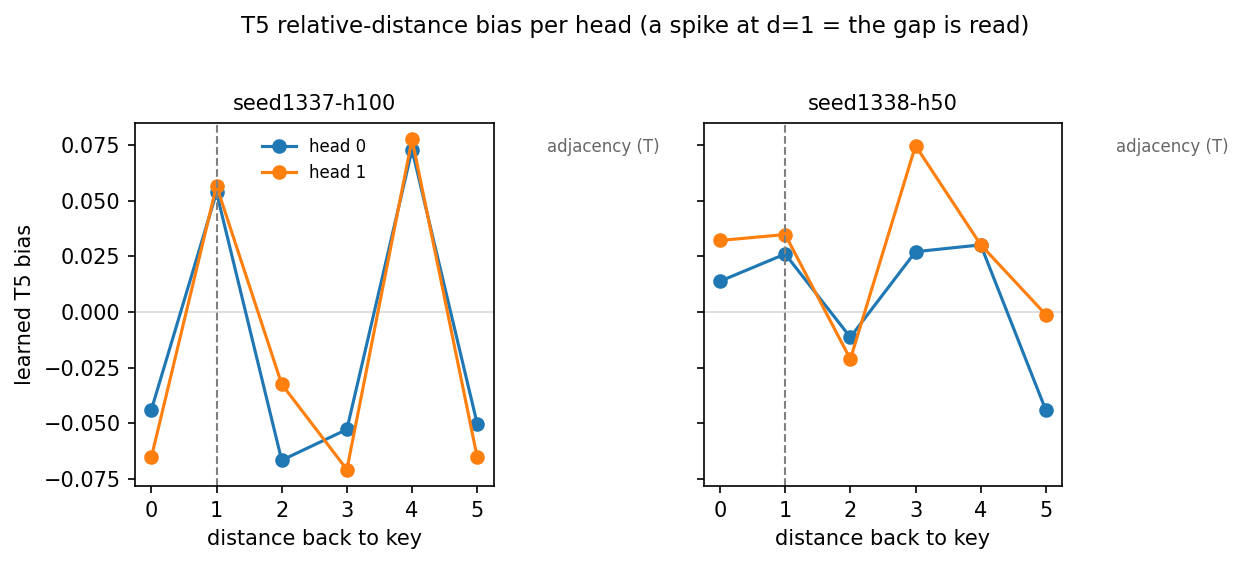
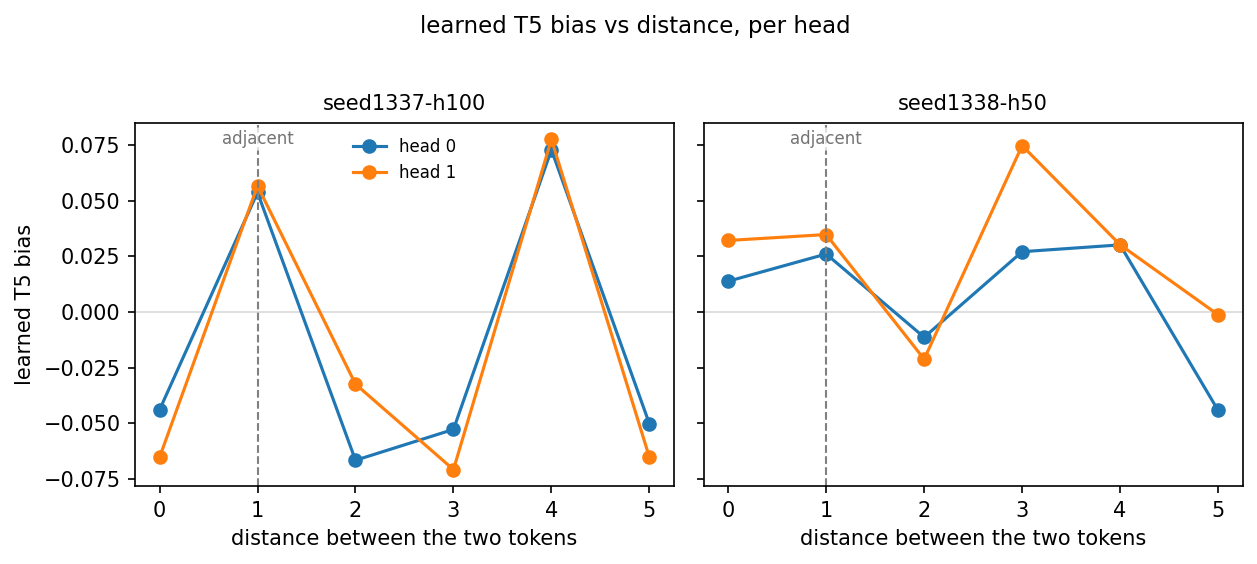
feat: update T5 bias visualization with improved plot labels and refined log commentary

diff --git a/generalization-background/plot_t5_bias.py b/generalization-background/plot_t5_bias.py
@@ -137,8 +137,9 @@ for ax, path, (dists, bias, meta) in zip(axes, ckpt_paths, series):
     for h in range(bias.size(1)):
         ax.plot(dists, bias[:, h].tolist(), marker='o', label=f'head {h}')
     ax.axvline(1, color='0.5', ls='--', lw=1)
-    ax.annotate('adjacency (T)', xy=(1, ax.get_ylim()[1]), xytext=(1.15, 0.92),
-                textcoords='axes fraction', fontsize=8, color='0.4')
+    ax.text(1, 0.98, 'adjacent', transform=ax.get_xaxis_transform(), fontsize=8,
+            color='0.45', ha='center', va='top',
+            bbox=dict(boxstyle='round,pad=0.15', fc='white', ec='none', alpha=0.75))
     ax.axhline(0, color='0.85', lw=0.8, zorder=0)
     if label_list:
         title = label_list[ckpt_paths.index(path)]
@@ -146,11 +147,11 @@ for ax, path, (dists, bias, meta) in zip(axes, ckpt_paths, series):
         va = f", val {meta['val_acc']:.0%}" if meta['val_acc'] is not None else ""
         title = f"seed {meta['seed']}{va}"
     ax.set_title(title, fontsize=10)
-    ax.set_xlabel('distance back to key')
+    ax.set_xlabel('distance between the two tokens')
     ax.set_xticks(dists)
 axes[0].set_ylabel('learned T5 bias')
 axes[0].legend(fontsize=8, frameon=False)
-fig.suptitle('T5 relative-distance bias per head (a spike at d=1 = the gap is read)', fontsize=11)
+fig.suptitle('learned T5 bias vs distance, per head', fontsize=11)
 fig.tight_layout(rect=(0, 0, 1, 0.96))
 
 os.makedirs(os.path.dirname(out) or '.', exist_ok=True)

diff --git a/generalization-background/log/2026-07-20-background-t5-bias-viz.md b/generalization-background/log/2026-07-20-background-t5-bias-viz.md
@@ -26,13 +26,15 @@ that works (1337). The right panel is the seed that fails (1338).
 A bump at distance 1 is the sensible one. To check whether X is next to Y, a token looks at its
 immediate neighbour, which is distance 1. So a bump there is exactly the move the task needs.
 
-<img src="figures/t5_bias_b1_len6.png" alt="both panels show a small bump at distance 1 and a larger bump at a far distance, mostly distance 4. The two seeds look broadly similar. All values are within plus or minus 0.08" width="100%">
+<img src="figures/t5_bias_b1_len6.png" alt="both panels show a small bump at distance 1 and a larger bump at a far distance, mostly distance 4. The two panels differ in detail. All values are within plus or minus 0.08" width="100%">
 
 ### What it means
 
-The graph does not tell the working seed from the failing one. Both look about the same. Each has a
-small bump at distance 1 (a bit larger in the working seed), and each has its biggest bump at a far
-distance (distance 4 for most of the lines).
+The two panels are not identical, but where they differ (for example the sign at distance 0 and
+distance 3) is at distances the task does not use, so it does not explain why one seed generalizes
+and the other fails. What matters is what they share. Both have only a small bump at distance 1 (a
+bit larger in the working seed), and both put their biggest bump at a far distance (distance 4 for
+most of the lines).
 
 The distance-1 bump makes sense, because that is the neighbour check the task needs. The distance-4
 bump does not make sense. X and Y are never 4 apart, so a bump there has no clear task meaning, and we
